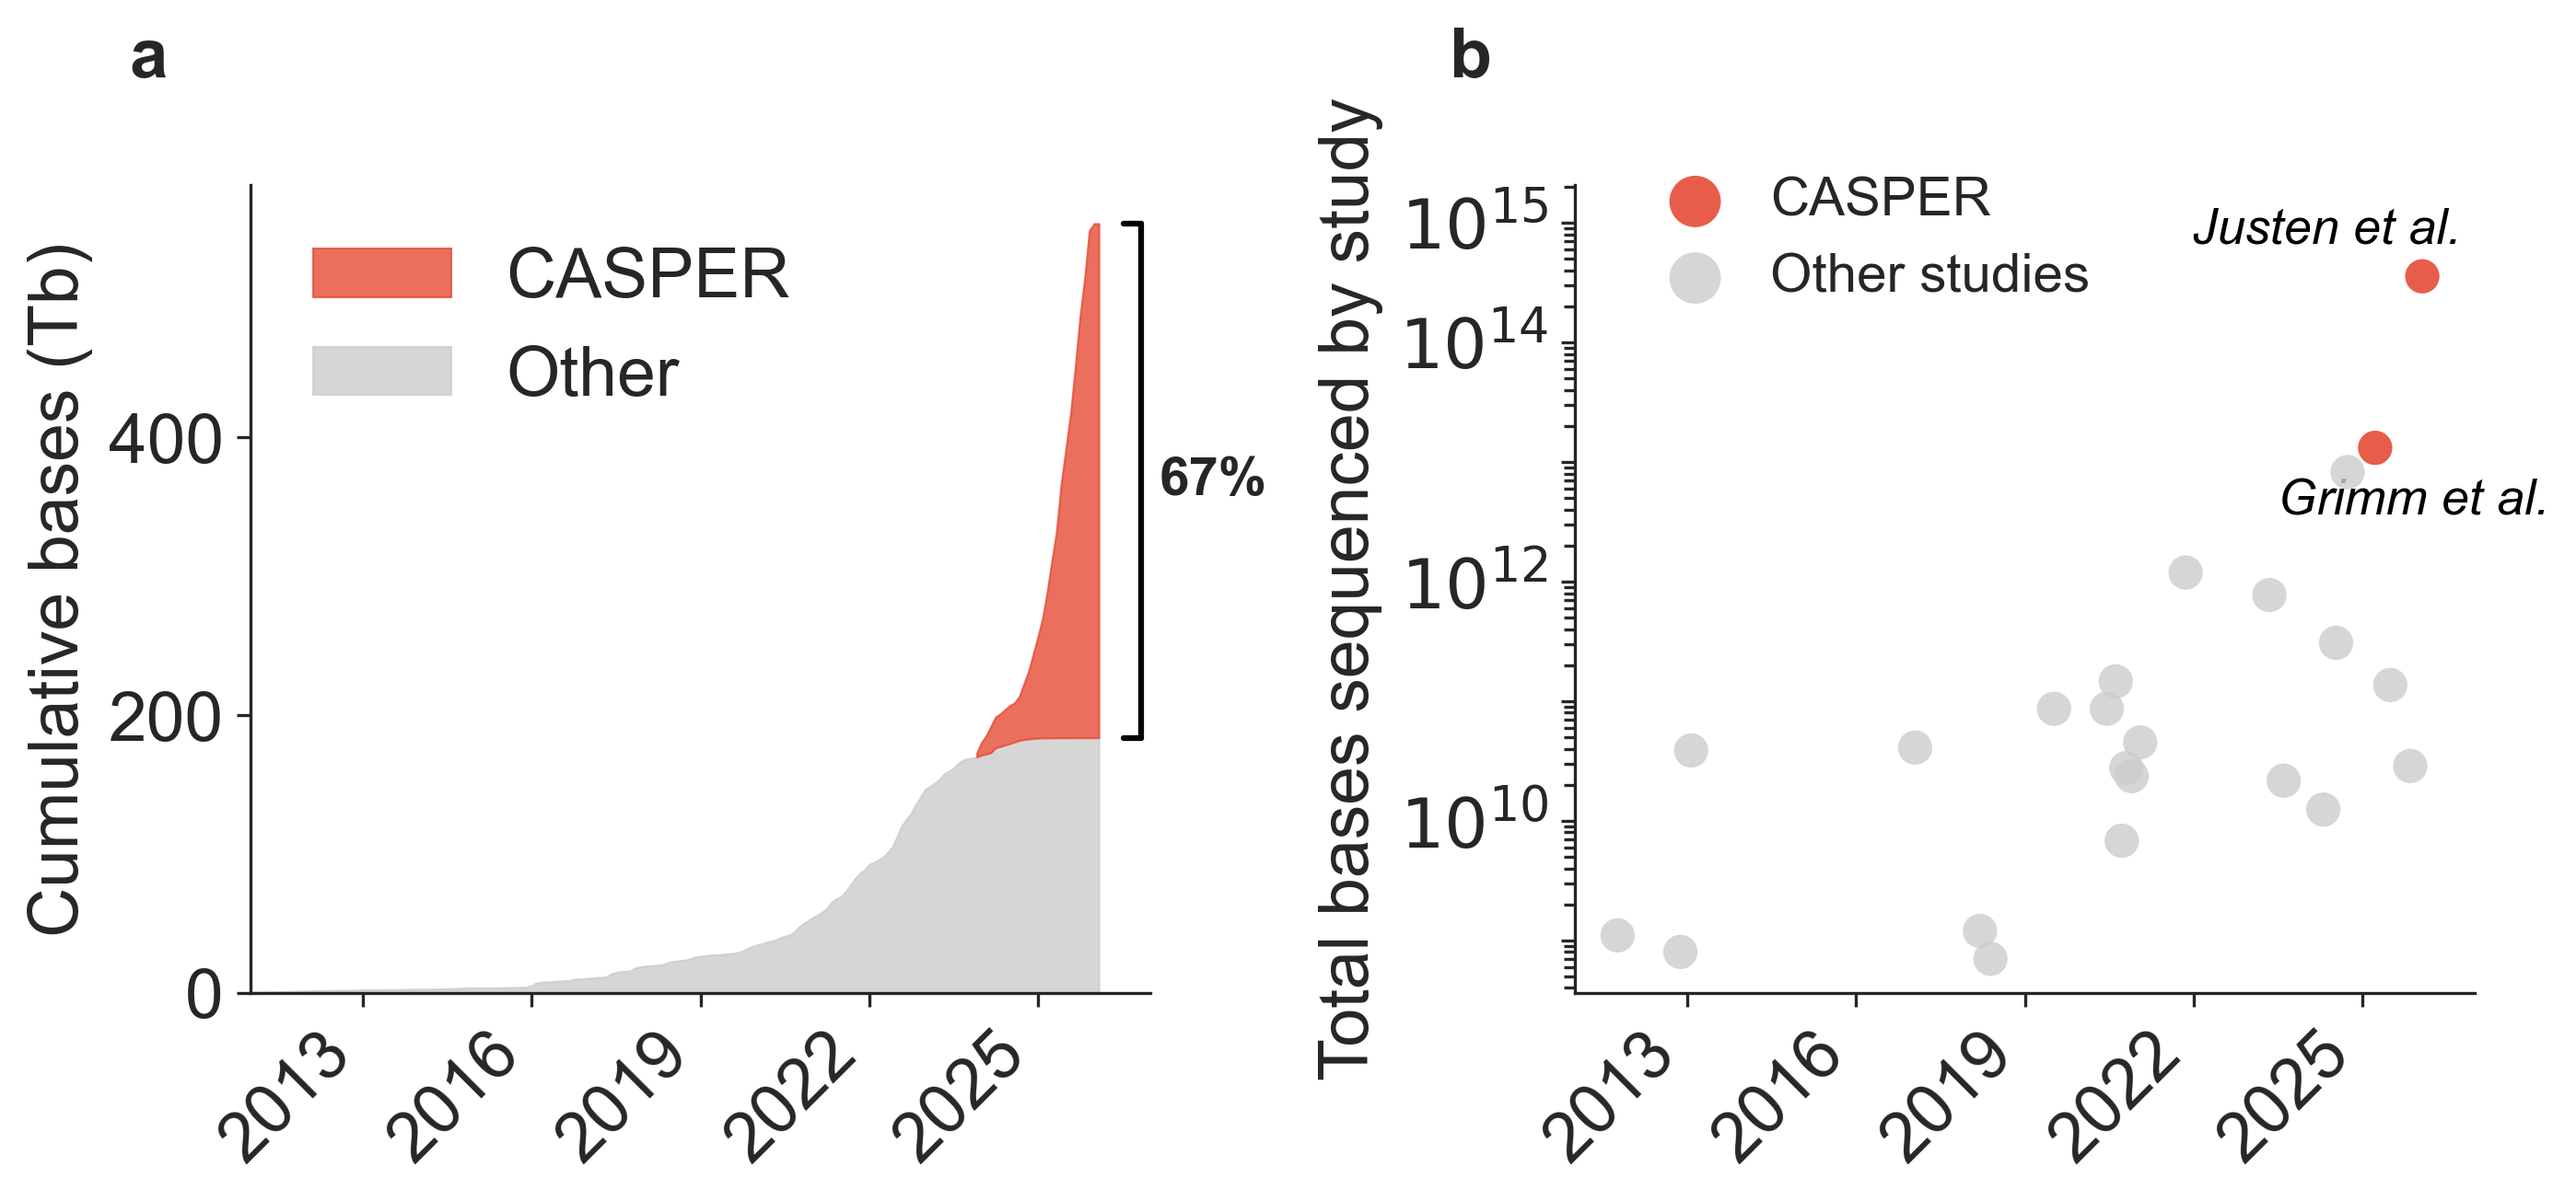
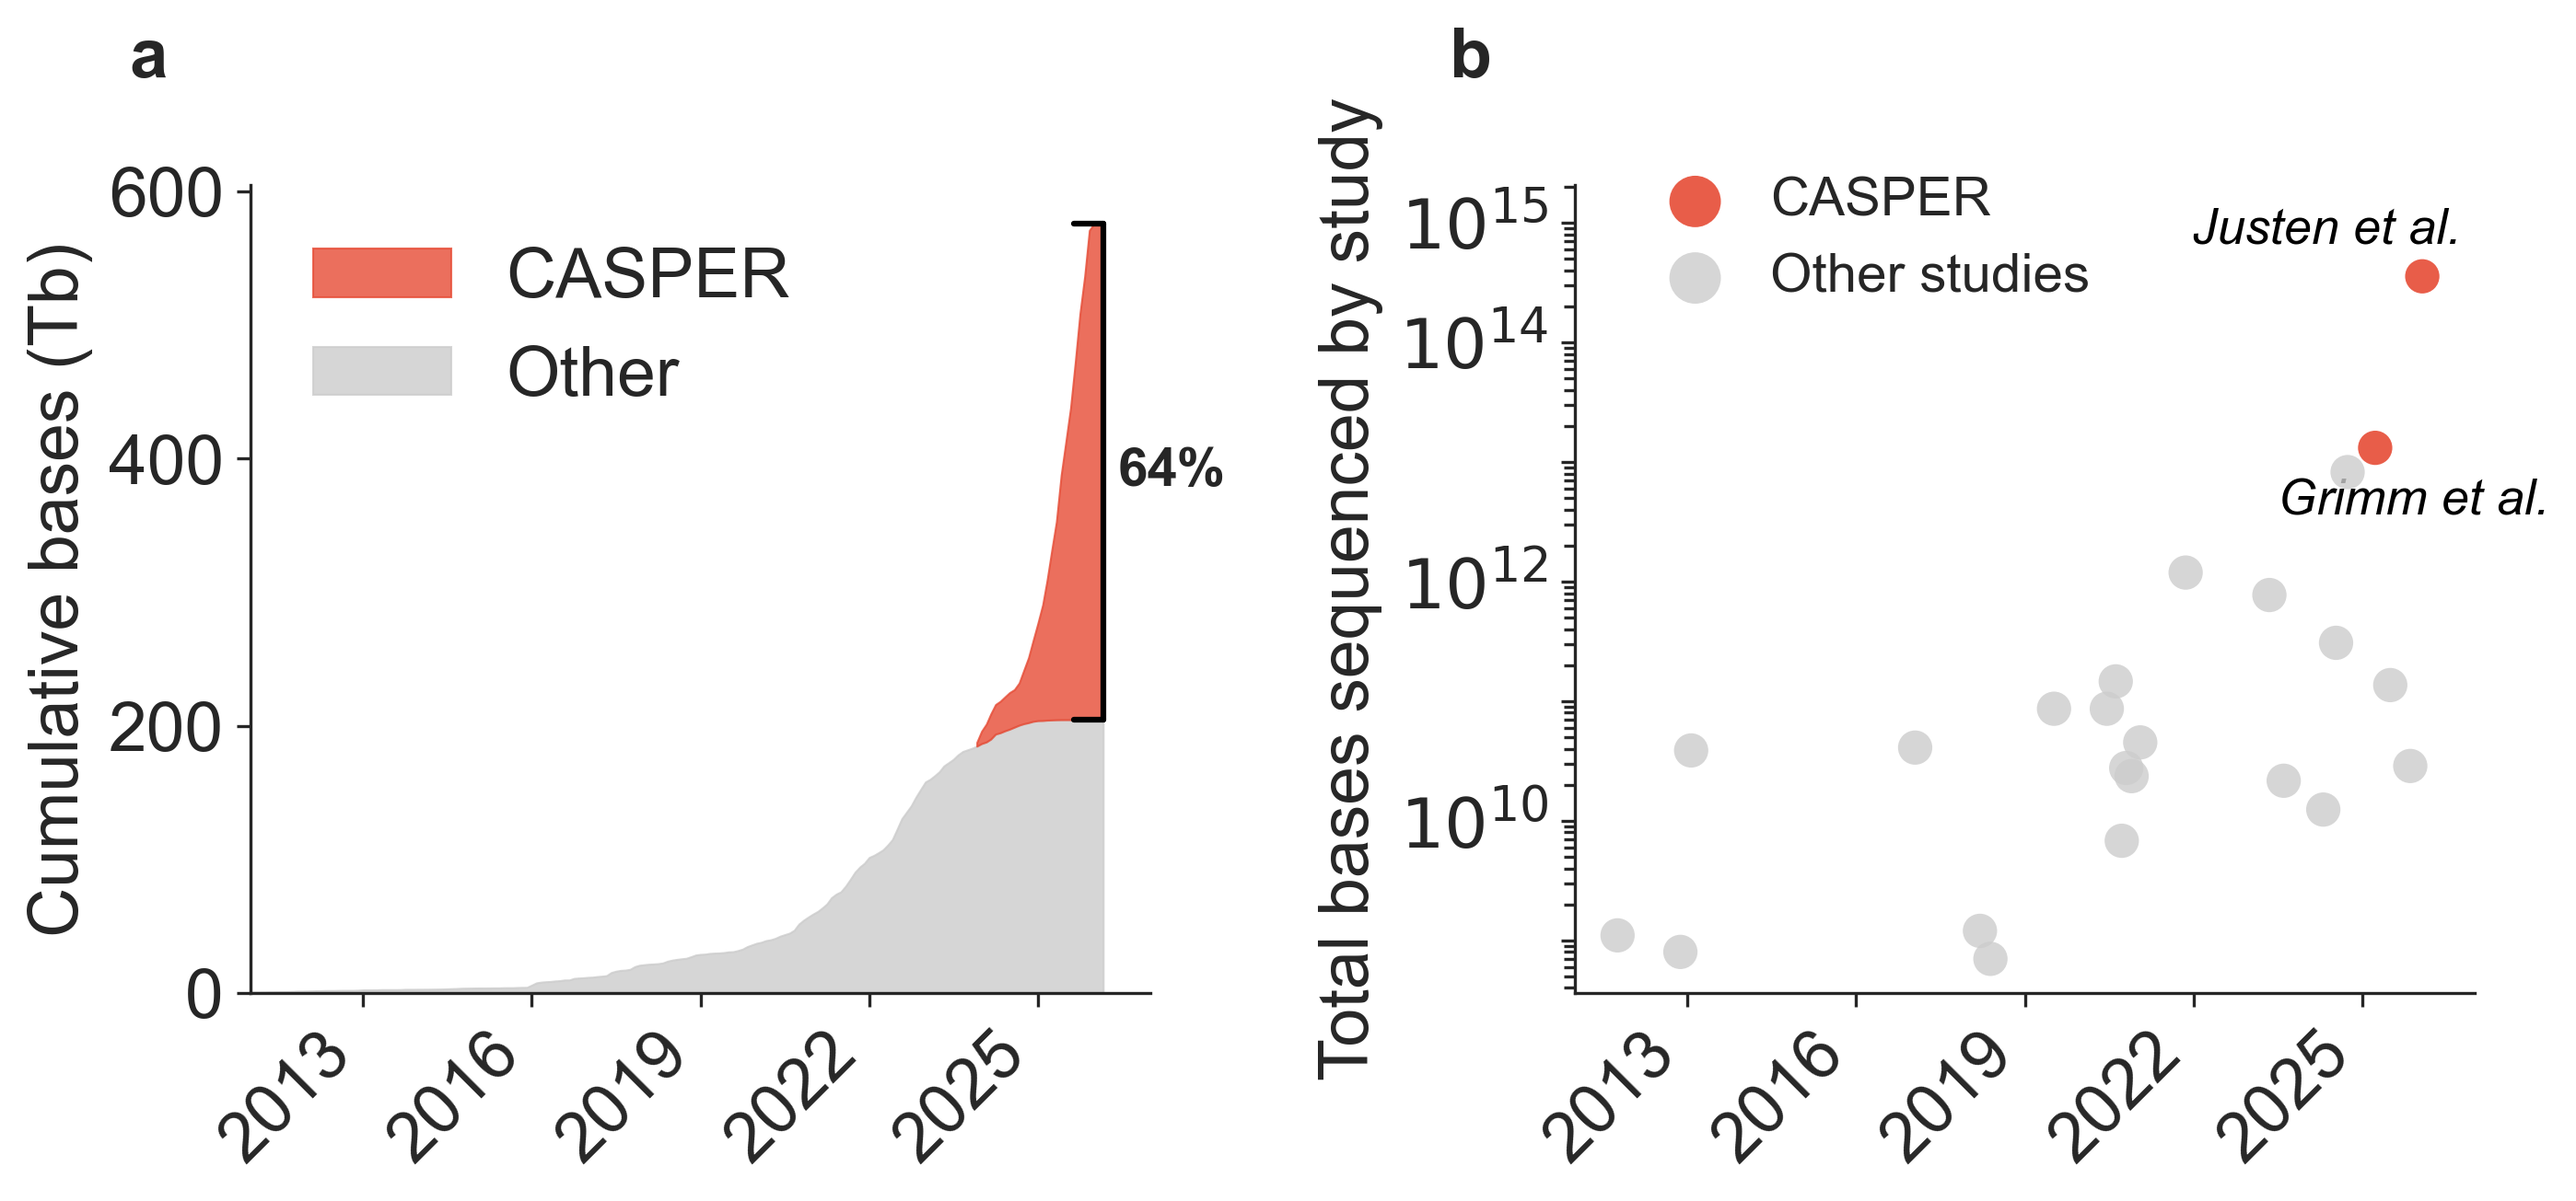
Fix SRA bracket positioning and rename label to wastewater metagenomic sequencing

diff --git a/code/plot_sampling_timeline_sra_combined.py b/code/plot_sampling_timeline_sra_combined.py
@@ -94,7 +94,7 @@ def plot_sra_panel_on_axis(ax, timeline_data, by_collection_date=False, category
     """Plot SRA cumulative data on a single axis."""
     if category == 'all':
         total_cat = 'wastewater_metagenome'
-        total_label = 'All wastewater sequencing'
+        total_label = 'Wastewater metagenomic sequencing'
     else:
         total_cat = 'wastewater_shotgun_metagenomic'
         total_label = 'Untargeted wastewater sequencing'
@@ -148,21 +148,21 @@ def plot_sra_panel_on_axis(ax, timeline_data, by_collection_date=False, category
         bracket_bottom = final_other
         bracket_top = final_total
         bracket_mid = (bracket_bottom + bracket_top) / 2
-        from matplotlib.transforms import blended_transform_factory
-        trans = blended_transform_factory(ax.transAxes, ax.transData)
-        bracket_x = 0.99
-        tick_len = 0.02
+        last_date = all_dates[-1]
+        import matplotlib.dates as mdates
+        last_date_num = mdates.date2num(last_date)
+        tick_len_days = (mdates.date2num(all_dates[-1]) - mdates.date2num(all_dates[0])) * 0.02
         line_color = 'black'
         lw = 1.5
-        ax.plot([bracket_x, bracket_x], [bracket_bottom, bracket_top],
-               color=line_color, linewidth=lw, clip_on=False, zorder=10, transform=trans)
-        ax.plot([bracket_x - tick_len, bracket_x], [bracket_bottom, bracket_bottom],
-               color=line_color, linewidth=lw, clip_on=False, zorder=10, transform=trans)
-        ax.plot([bracket_x - tick_len, bracket_x], [bracket_top, bracket_top],
-               color=line_color, linewidth=lw, clip_on=False, zorder=10, transform=trans)
-        ax.text(bracket_x + 0.02, bracket_mid, f'{casper_pct:.0f}%',
+        ax.plot([last_date_num, last_date_num], [bracket_bottom, bracket_top],
+               color=line_color, linewidth=lw, clip_on=False, zorder=10)
+        ax.plot([last_date_num - tick_len_days, last_date_num], [bracket_bottom, bracket_bottom],
+               color=line_color, linewidth=lw, clip_on=False, zorder=10)
+        ax.plot([last_date_num - tick_len_days, last_date_num], [bracket_top, bracket_top],
+               color=line_color, linewidth=lw, clip_on=False, zorder=10)
+        ax.text(last_date_num + tick_len_days * 0.5, bracket_mid, f'{casper_pct:.0f}%',
                fontsize=FONT_SIZE_BASE, ha='left', va='center',
-               fontweight='bold', transform=trans, zorder=10)
+               fontweight='bold', zorder=10)
     else:
         ax.fill_between(all_dates, 0, total_data['cumulative_mbases'],
                        label=total_label, color=other_color, alpha=0.8)

diff --git a/code/plot_sra_untargeted_supplement.py b/code/plot_sra_untargeted_supplement.py
@@ -89,21 +89,21 @@ def plot_sra_panel_on_axis(ax, timeline_data, by_collection_date=False, category
         bracket_bottom = final_other
         bracket_top = final_total
         bracket_mid = (bracket_bottom + bracket_top) / 2
-        from matplotlib.transforms import blended_transform_factory
-        trans = blended_transform_factory(ax.transAxes, ax.transData)
-        bracket_x = 0.99
-        tick_len = 0.02
+        last_date = all_dates[-1]
+        import matplotlib.dates as mdates
+        last_date_num = mdates.date2num(last_date)
+        tick_len_days = (mdates.date2num(all_dates[-1]) - mdates.date2num(all_dates[0])) * 0.02
         line_color = 'black'
         lw = 1.5
-        ax.plot([bracket_x, bracket_x], [bracket_bottom, bracket_top],
-               color=line_color, linewidth=lw, clip_on=False, zorder=10, transform=trans)
-        ax.plot([bracket_x - tick_len, bracket_x], [bracket_bottom, bracket_bottom],
-               color=line_color, linewidth=lw, clip_on=False, zorder=10, transform=trans)
-        ax.plot([bracket_x - tick_len, bracket_x], [bracket_top, bracket_top],
-               color=line_color, linewidth=lw, clip_on=False, zorder=10, transform=trans)
-        ax.text(bracket_x + 0.02, bracket_mid, f'{casper_pct:.0f}%',
+        ax.plot([last_date_num, last_date_num], [bracket_bottom, bracket_top],
+               color=line_color, linewidth=lw, clip_on=False, zorder=10)
+        ax.plot([last_date_num - tick_len_days, last_date_num], [bracket_bottom, bracket_bottom],
+               color=line_color, linewidth=lw, clip_on=False, zorder=10)
+        ax.plot([last_date_num - tick_len_days, last_date_num], [bracket_top, bracket_top],
+               color=line_color, linewidth=lw, clip_on=False, zorder=10)
+        ax.text(last_date_num + tick_len_days * 0.5, bracket_mid, f'{casper_pct:.0f}%',
                fontsize=FONT_SIZE_BASE, ha='left', va='center',
-               fontweight='bold', transform=trans, zorder=10)
+               fontweight='bold', zorder=10)
     else:
         ax.fill_between(all_dates, 0, total_data['cumulative_mbases'],
                        label=total_label, color=other_color, alpha=0.8)
